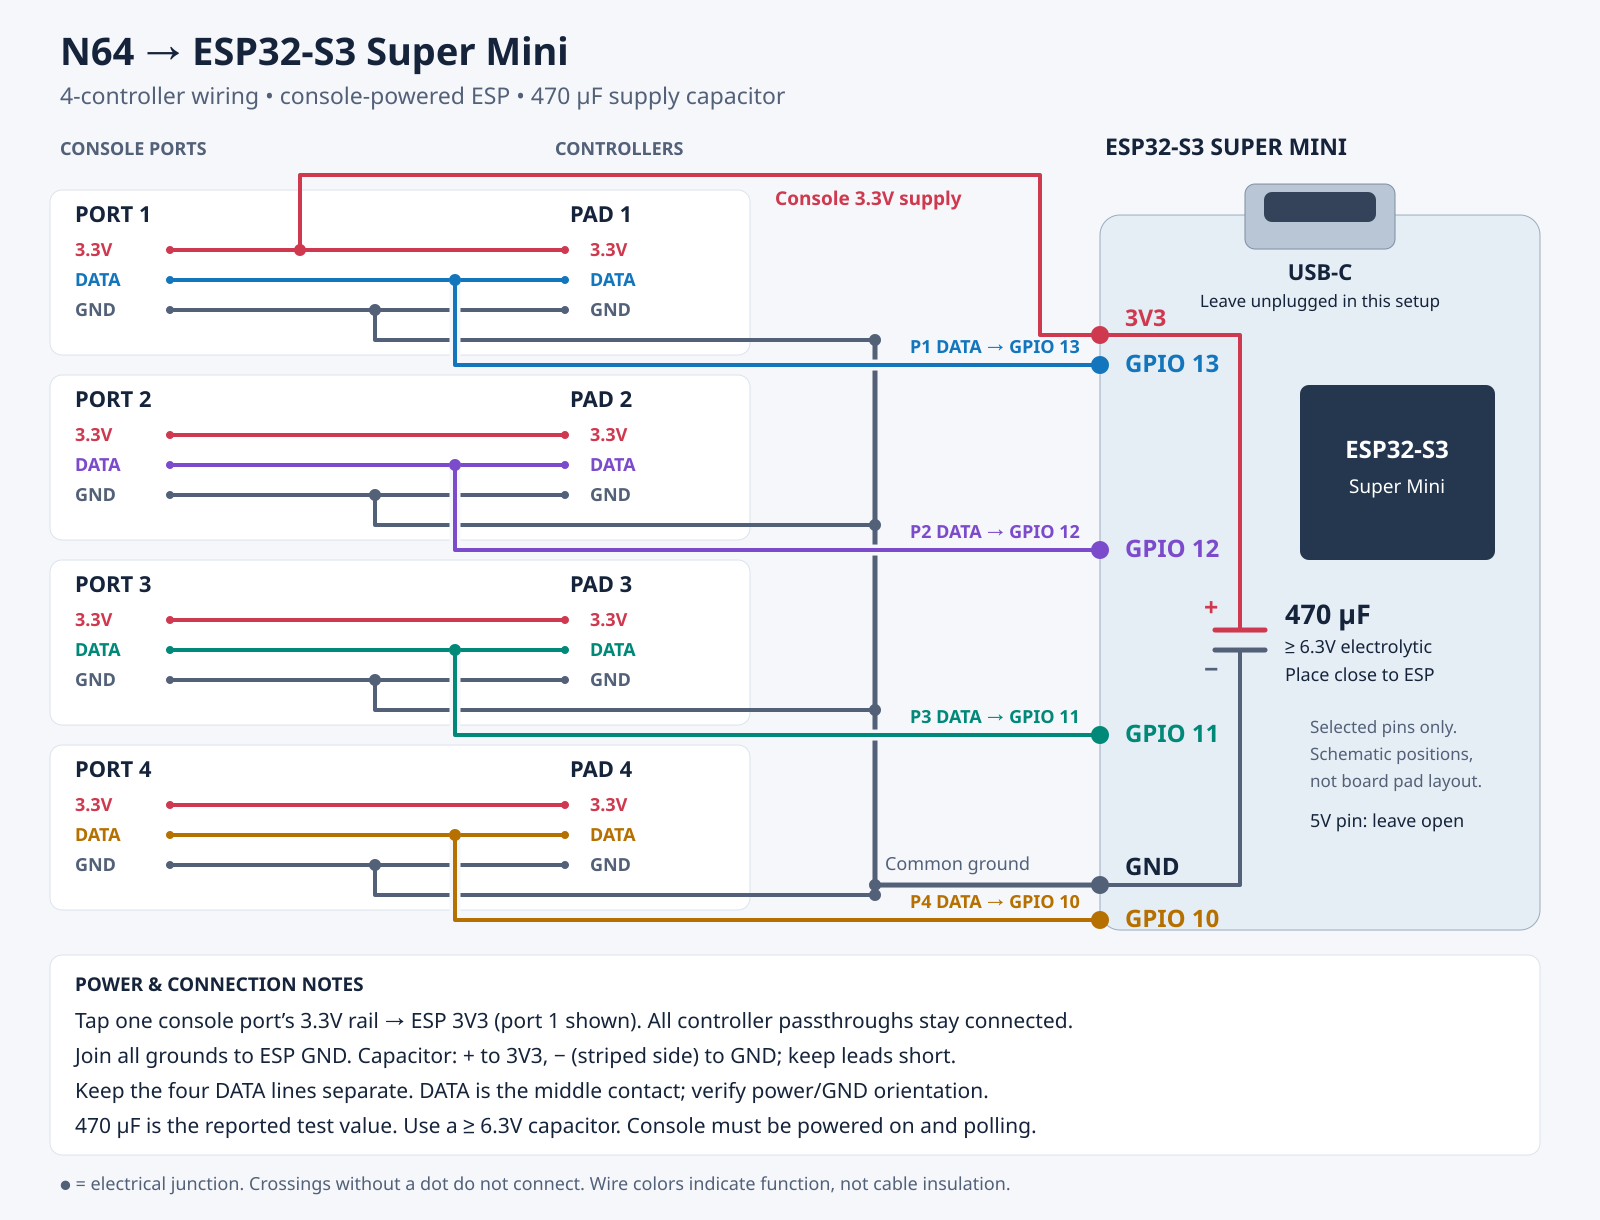
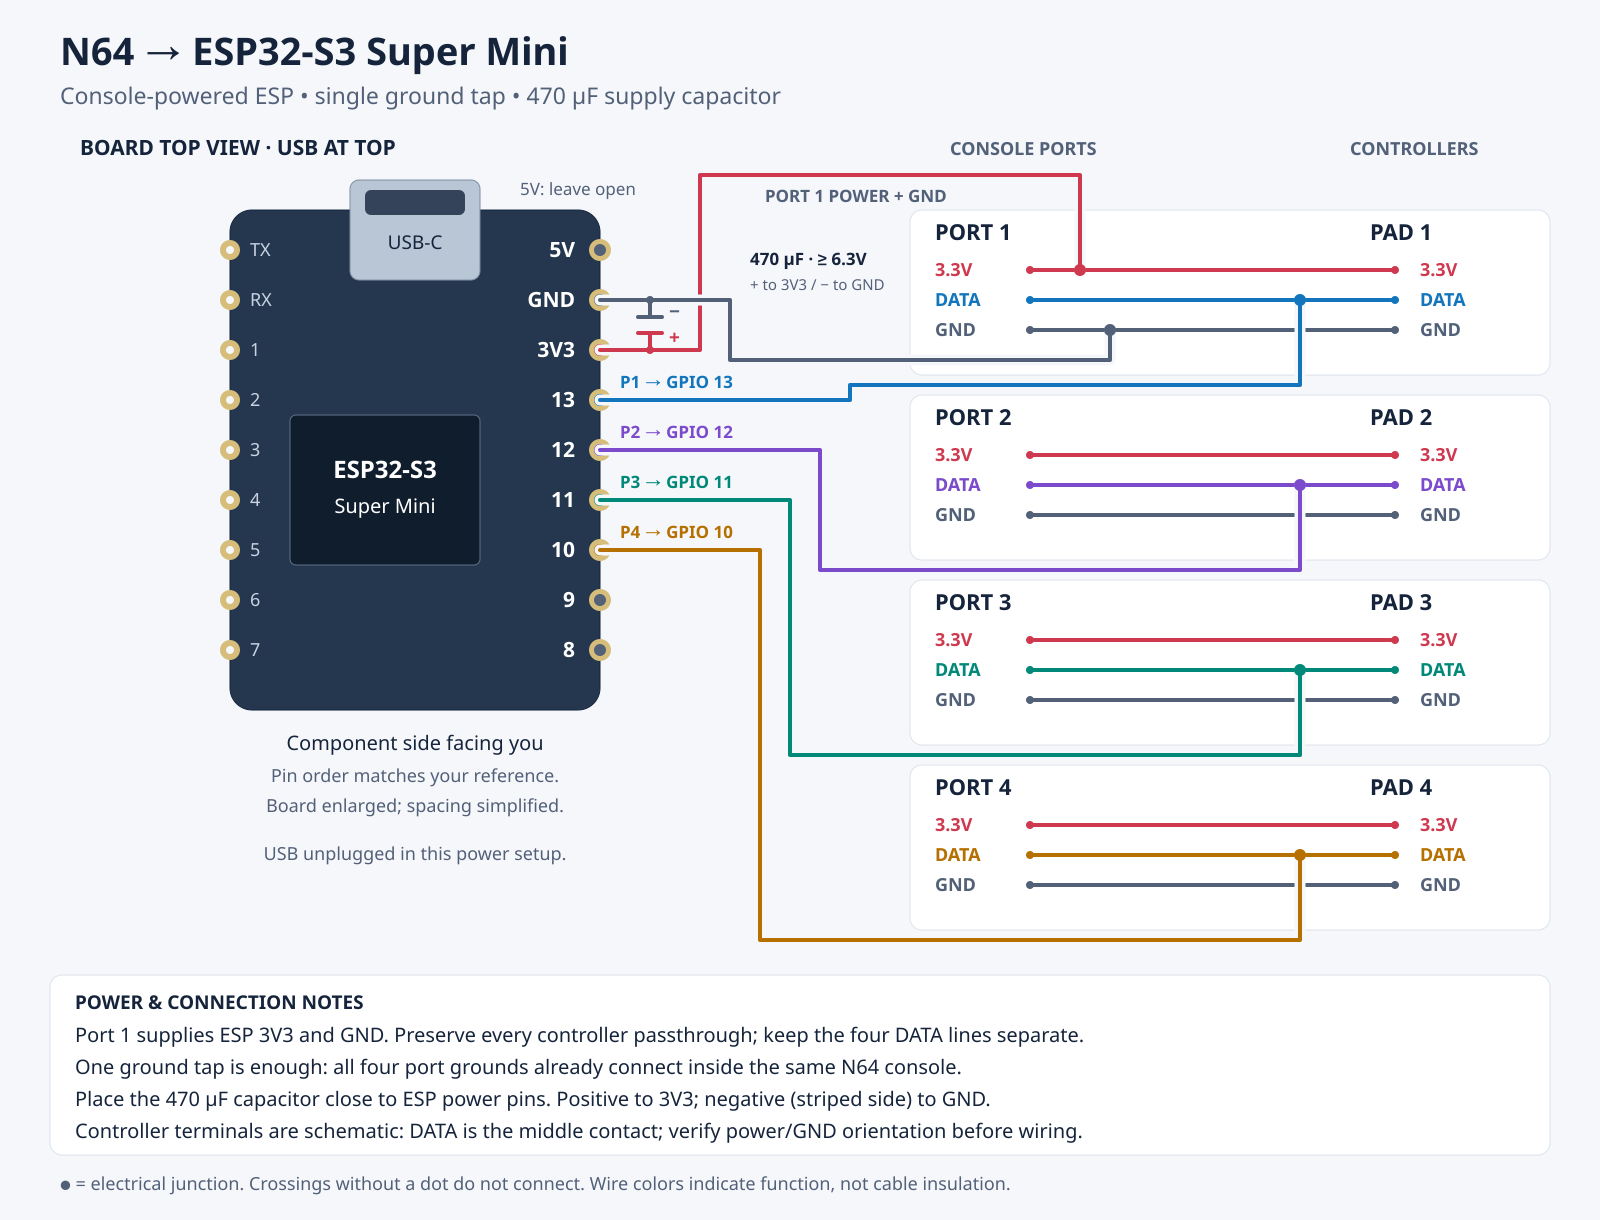
docs: align wiring diagram with Super Mini pin layout

diff --git a/README.md b/README.md
@@ -28,9 +28,15 @@ hand-counted NOP delays → the Xtensa cycle counter (`xthal_get_ccount`) scaled
 ![Four-controller passthrough wiring](docs/n64-esp32-wiring.png)
 
 [Download the wiring graphic (SVG)](docs/n64-esp32-wiring.svg). The diagram uses
-logical terminal positions, not physical board pad positions. Power the ESP by
+the board’s component-side view with USB at the top, matching the supplied
+Super Mini pinout. The right-edge pins run **5V, GND, 3V3, GPIO 13, 12, 11, 10,
+9, 8** from top to bottom; 3V3 is labelled `3V3OUT` in the reference image.
+Board spacing is simplified, and controller terminals are schematic. Power the ESP by
 tapping one console controller port’s 3.3V rail into the ESP **3V3** pin (port 1
-is shown). Console power still passes through to each controller. Connect a
+is shown). Tap **GND from that same port** to ESP GND. One ground tap is enough:
+all four port grounds are already common inside the same N64 console. Preserve
+each controller’s power and ground passthrough; no extra ground bridges between
+ports are needed. Connect a
 **470 µF electrolytic capacitor** across ESP 3V3 and GND, close to the board with
 short leads: **positive (+) to 3V3**, **negative (striped side) to GND**. Use a
 voltage rating of at least 6.3V. The 470 µF value is the reported value from the
@@ -44,7 +50,7 @@ The generic `esp32dev` environments leave the LED disabled unless that flag is s
 
 | N64 connector | ESP32 |
 |---------------|-------|
-| GND           | GND   |
+| GND (same port as power tap) | GND |
 | DATA (middle) | GPIO 13/12/11/10 (`N64_PIN_1..N64_PIN_4` in [src/main.cpp](src/main.cpp)) |
 | 3.3V (tap one console port) | 3V3, with 470 µF capacitor to GND |
 
